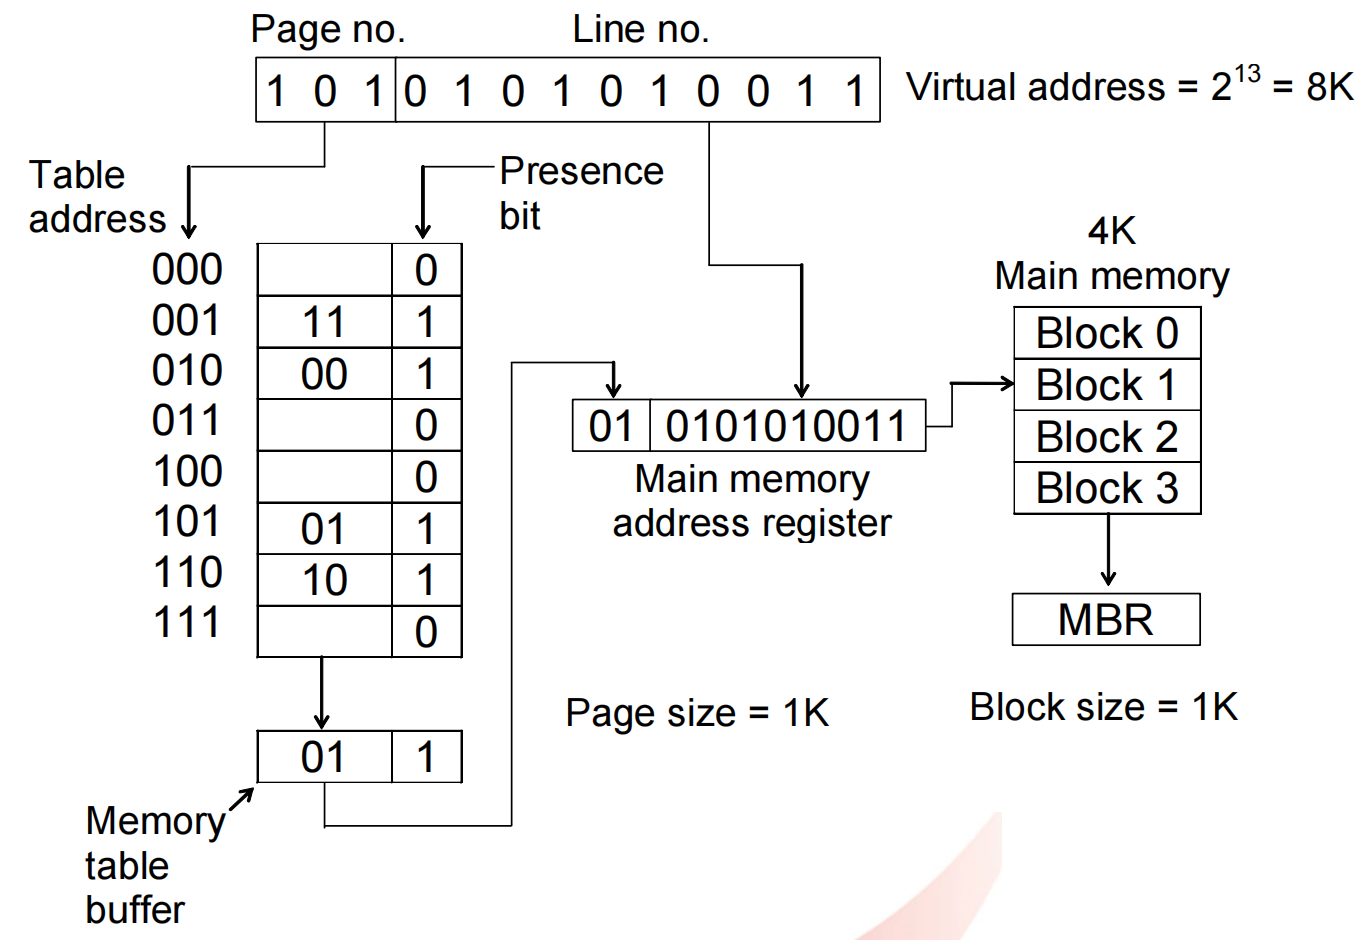
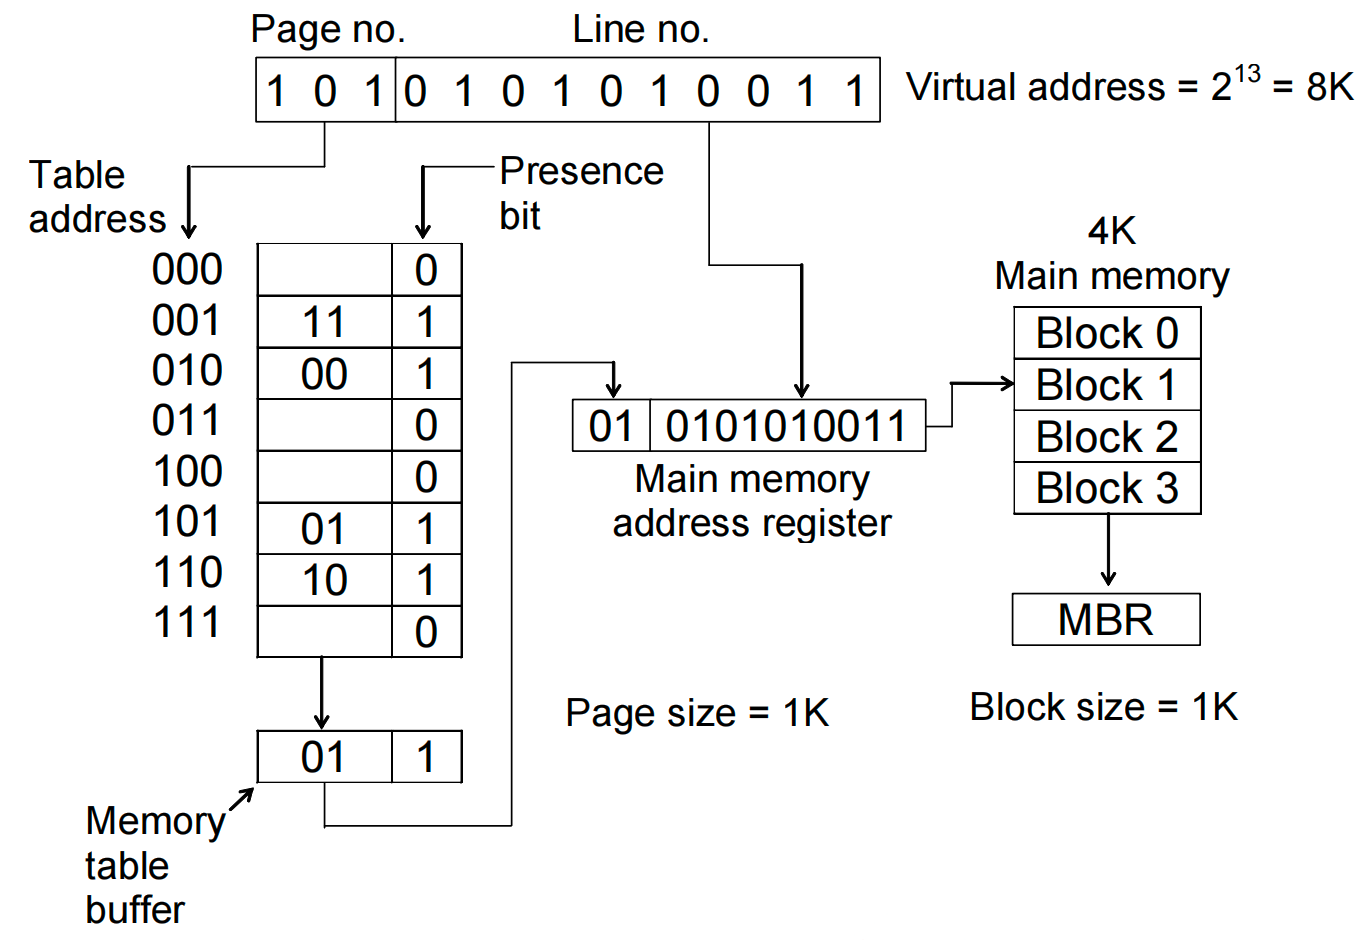
6309 100%

Changed region(s): [[0.6131, 0.8947, 0.7051, 1.0]]

diff --git a/课件/EE6309/Tony/Design for Testability (DFT)/Design for Testability (DFT).md b/课件/EE6309/Tony/Design for Testability (DFT)/Design for Testability (DFT).md
@@ -385,7 +385,7 @@
 - A realization $C$ of a function $f$ is said to be syndrome-testable if no single stuck-at fault causes the circuit to have the same syndrome as the faultfree circuit
   如果没有单一的“固定故障”（stuck-at fault）会导致电路的特征值与无故障电路的特征值相同，这个实现 $C$ 被称为可测试特征值的
 - Syndrome is a property of function, not of implementation
-  综合征是函数的属性，而不是具体实现的属性
+  特征值是函数的属性，而不是具体实现的属性
 
 - **Unate** Definition
 	- A logic function is unate in a variable $x_i$ if it can be represented as an SOP or POS expression in which the variable $x_i$ appears either only in an uncomplemented form or only in a complemented form
